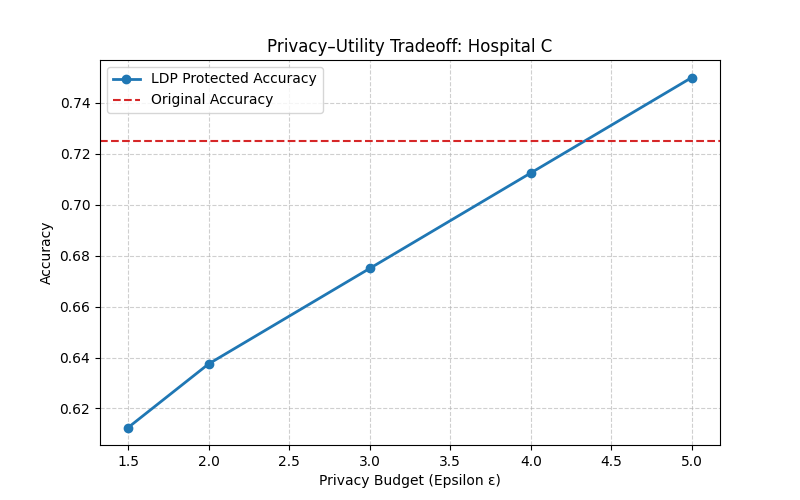
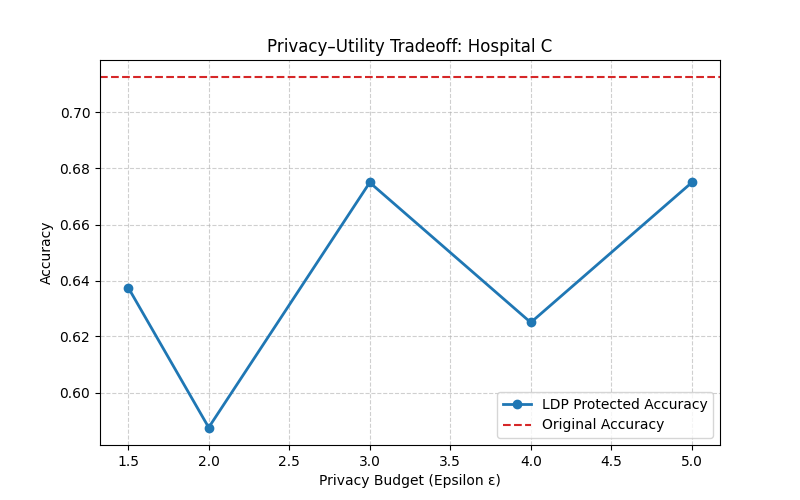
re run

diff --git a/notebooks/inference_xai.py b/notebooks/inference_xai.py
@@ -82,7 +82,7 @@ def run_inference_xai():
     )
 
     if not os.path.exists(model_path):
-        print("❌ global_model.pth not found.")
+        print("global_model.pth not found.")
         return
 
     model.load_state_dict(
@@ -122,7 +122,7 @@ def run_inference_xai():
         )
     )
 
-    print("🧠 Running GNNExplainer...")
+    print("Running GNNExplainer...")
 
     explanation = explainer(test_patient, edge_index)
 
